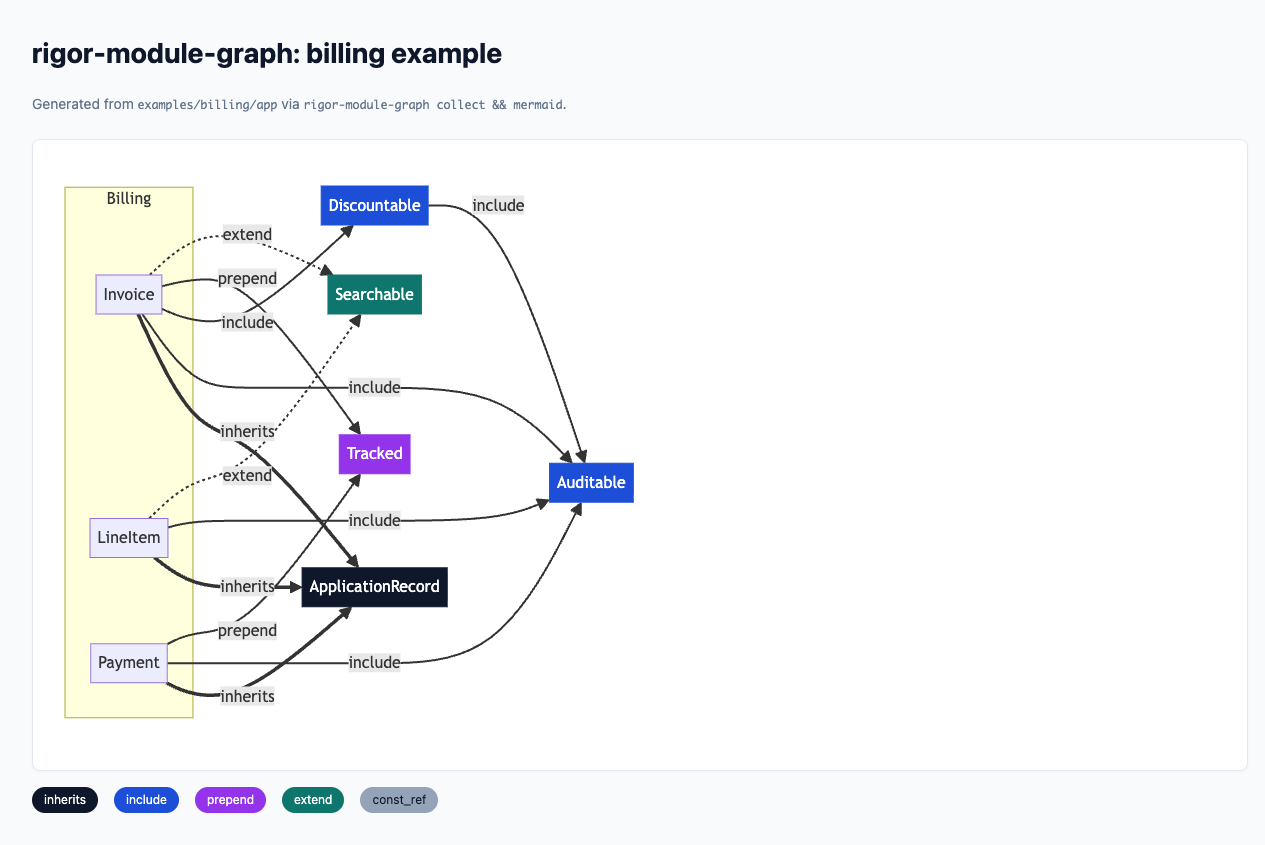
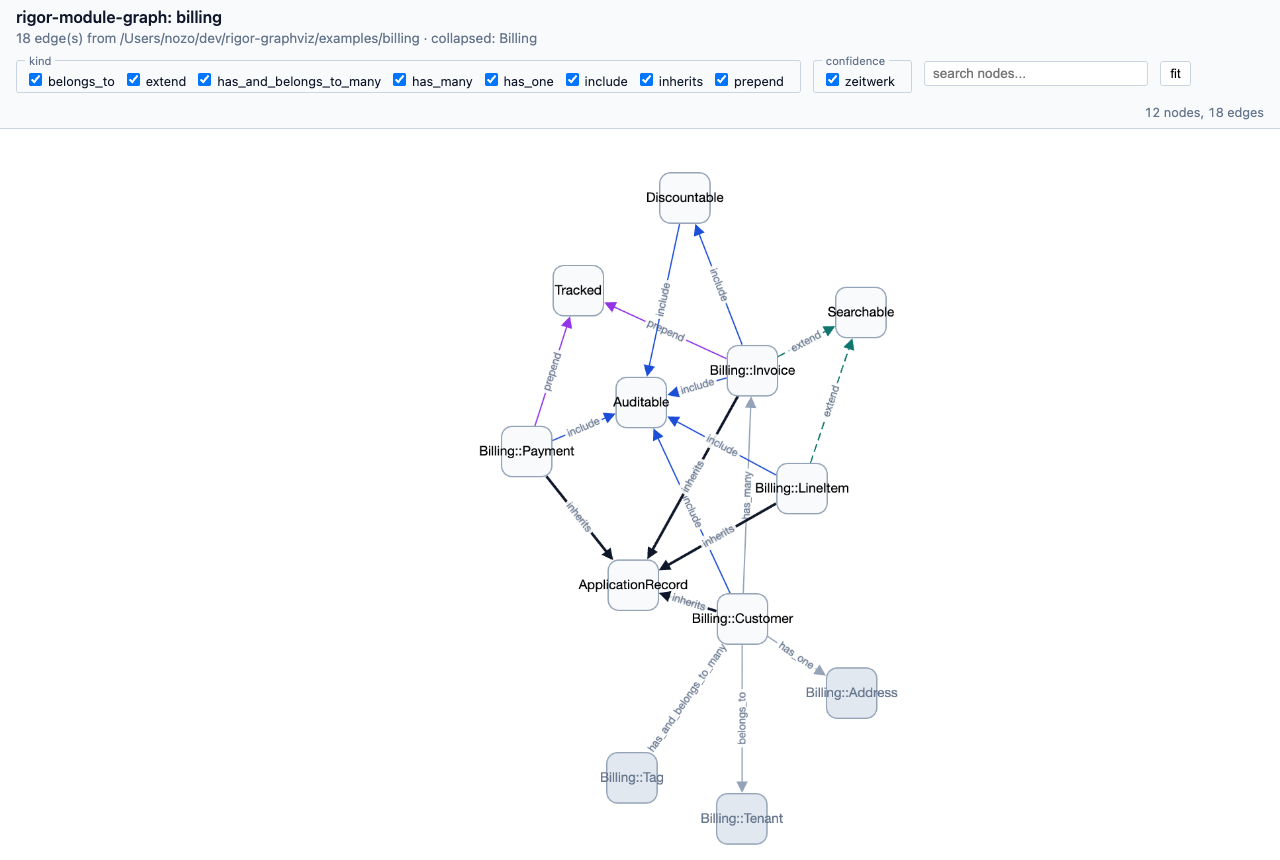
README: show both Graphviz and Cytoscape renderings of billing
Replaces the single `graph.svg` hero image with two labelled
screenshots:

- `examples/billing/graph.svg` — Graphviz static SVG, the
  format that commits cleanly into PRs and renders inline on
  GitHub.
- `examples/billing/preview.png` — the new Cytoscape viewer,
  captured at 1280x860 against the regenerated `index.html`.
  Shows the kind / confidence filter checkboxes, the search
  box, the live node / edge counter, and the cose-laid-out
  graph with edge-kind colouring (inherits black, include
  blue, prepend purple, extend dashed green, associations
  grey).

The two are framed as "static for docs, interactive for
exploration" — same `edges.jsonl` underneath, so a reader can
see immediately that this gem covers both rendering paths
from one analysis.

`preview.png` joins `graph.svg` in `RDOC_ASSET_PATHS`, so
the GitHub Pages site at
https://nozomemein.github.io/rigor-module-graph/ also shows
both images. Verified locally with `rake rdoc`:
`doc/examples/billing/{graph.svg,preview.png}` both present,
README_md.html carries both `<img>` tags.

`check_billing_drift.rb` still passes — the PNG is a
manually-captured screenshot (not regenerated by build.rb),
so it stays outside the drift-check set.

diff --git a/README.md b/README.md
@@ -11,10 +11,25 @@ to Packwerk/Graphwerk: where those look at package boundaries, this
 looks at the Ruby nominal graph — inheritance, `include`/`prepend`/
 `extend`, and (later) constant references.
 
-![billing example](examples/billing/graph.svg)
+**Two ways to look at the same graph.** Static SVG via
+Graphviz for committing into PRs and docs; interactive HTML
+via Cytoscape.js for actually exploring a 1000+-node Rails
+codebase. Both rendered from the same `edges.jsonl` —
+no second analysis pass.
 
-The screenshot above is from `examples/billing/`. Open
-`examples/billing/index.html` for the live Mermaid version.
+### Graphviz (`--output svg`)
+
+![billing graph via Graphviz](examples/billing/graph.svg)
+
+### Cytoscape (`--output html`, the default)
+
+![billing graph via Cytoscape](examples/billing/preview.png)
+
+Both screenshots are from `examples/billing/`. Open
+`examples/billing/index.html` directly to try the
+interactive version — pan, zoom, filter by `kind` /
+`confidence`, search by name, click a node to copy
+`path:line`.
 
 ## Install
 